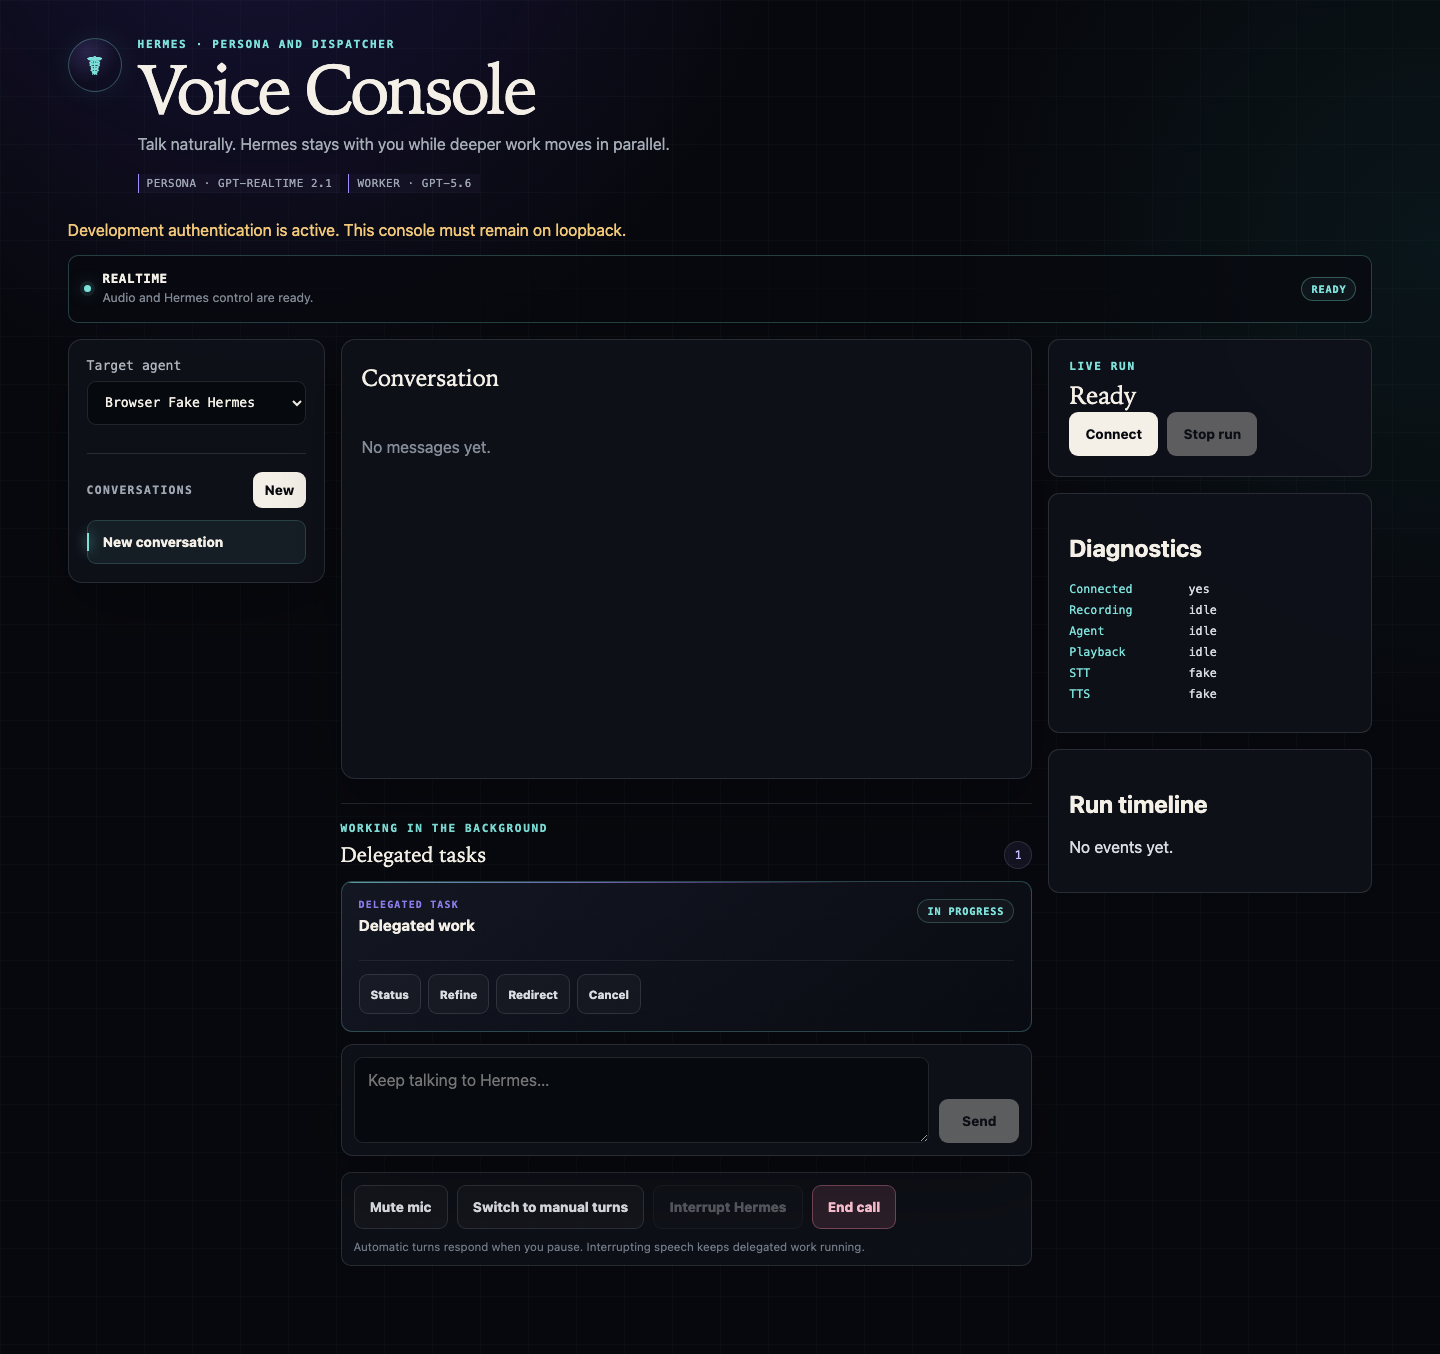
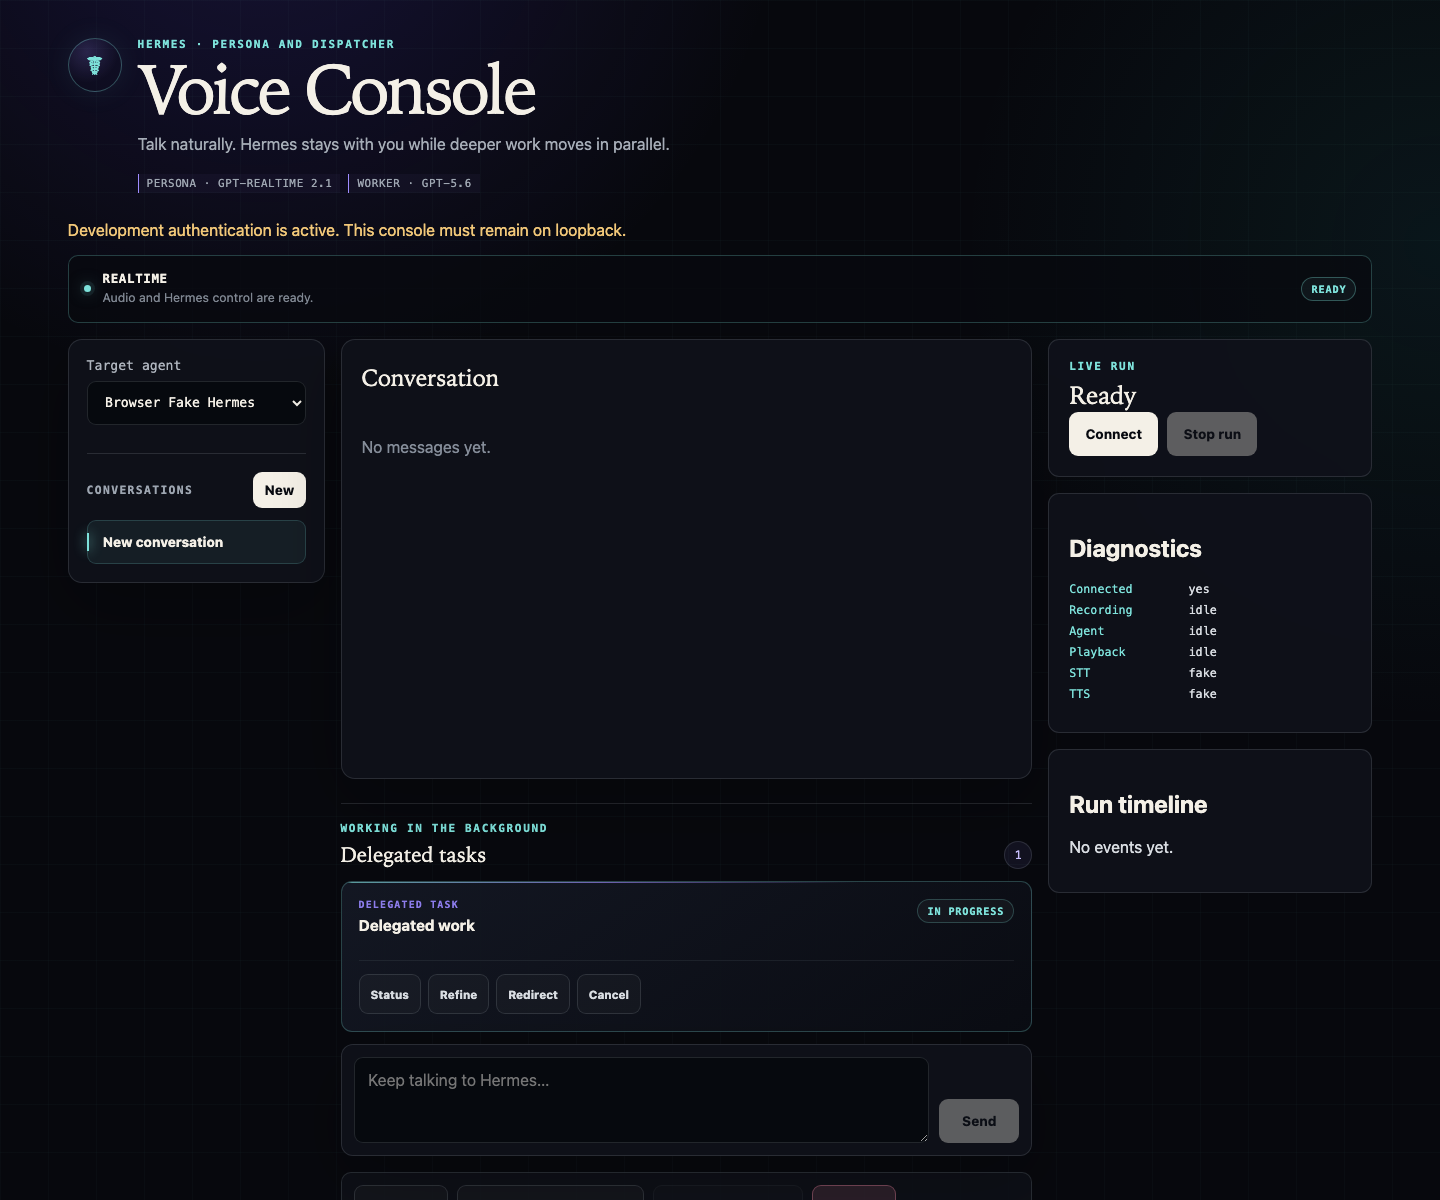
Tighten visual contrast and viewport evidence

diff --git a/frontend/src/styles.css b/frontend/src/styles.css
@@ -10,6 +10,7 @@
   --ivory: #f4f0e7;
   --ink: #d9dde2;
   --muted: #858d99;
+  --operational-muted: #87909d;
   --cyan: #7ee2db;
   --violet: #9f8cff;
   --amber: #f2c879;
@@ -105,7 +106,7 @@ h1, h2, h3 { color: var(--ivory); }
 .input-meter { width: 96px; height: 4px; overflow: hidden; border-radius: 99px; background: #252a35; }
 .input-meter span { display: block; width: 100%; height: 100%; transform-origin: left; background: linear-gradient(90deg, var(--violet), var(--cyan)); transition: transform 80ms linear; }
 .recording-time { min-width: 82px; color: var(--muted); font-family: ui-monospace, SFMono-Regular, Menlo, monospace; font-variant-numeric: tabular-nums; }
-.ai-voice-disclosure { flex-basis: 100%; margin: 0; color: #707986; font-size: .75rem; }
+.ai-voice-disclosure { flex-basis: 100%; margin: 0; color: var(--operational-muted); font-size: .75rem; }
 .sr-only { position: absolute; width: 1px; height: 1px; padding: 0; margin: -1px; overflow: hidden; clip: rect(0, 0, 0, 0); white-space: nowrap; border: 0; }
 .mic { min-width: 180px; min-height: 64px; color: #080a10; background: linear-gradient(112deg, var(--ivory), #b8fff8); }
 .mic.recording { background: linear-gradient(112deg, #ffd3de, var(--rose)); animation: pulse 1s infinite; }
@@ -145,7 +146,7 @@ code { border: 1px solid var(--line); border-radius: 5px; padding: 2px 6px; back
 .conversation-list button:hover:not(:disabled) { background: rgba(255, 255, 255, .035); }
 .conversation-list button.active { border-color: rgba(126, 226, 219, .18); color: var(--ivory); background: rgba(126, 226, 219, .065); }
 .conversation-list button.active::before { content: ''; position: absolute; inset: 12px auto 12px -1px; width: 2px; background: var(--cyan); box-shadow: 0 0 12px var(--cyan); }
-.operator-label { margin: 26px 0 0; color: #707986; font-family: ui-monospace, SFMono-Regular, Menlo, monospace; font-size: .68rem; line-height: 1.6; }
+.operator-label { margin: 26px 0 0; color: var(--operational-muted); font-family: ui-monospace, SFMono-Regular, Menlo, monospace; font-size: .68rem; line-height: 1.6; }
 .realtime-status-wrap { margin: 0 0 16px; padding: 12px 15px; border: 1px solid var(--line); border-radius: 10px; background: rgba(7, 9, 14, .72); }
 .realtime-status { display: flex; align-items: center; justify-content: space-between; gap: 16px; min-height: 42px; }
 .realtime-status-copy { display: flex; align-items: center; gap: 12px; min-width: 0; }
@@ -162,7 +163,7 @@ code { border: 1px solid var(--line); border-radius: 5px; padding: 2px 6px; back
 .realtime-presence { display: flex; gap: 6px; margin-left: auto; }
 .realtime-presence span, .job-status { border: 1px solid var(--line-strong); border-radius: 99px; padding: 5px 9px; color: var(--cyan); background: rgba(126, 226, 219, .055); font-family: ui-monospace, SFMono-Regular, Menlo, monospace; font-size: .64rem; font-weight: 700; text-transform: uppercase; letter-spacing: .08em; }
 .realtime-voice-controls { display: flex; align-items: center; flex-wrap: wrap; gap: 9px; margin-bottom: 16px; padding: 12px; border: 1px solid var(--line); border-radius: 10px; background: rgba(14, 17, 25, .76); }
-.realtime-voice-controls p { flex-basis: 100%; margin: 2px 0 0; color: #707986; font-size: .72rem; }
+.realtime-voice-controls p { flex-basis: 100%; margin: 2px 0 0; color: var(--operational-muted); font-size: .72rem; }
 .manual-capture-controls { display: flex; align-items: center; flex-wrap: wrap; gap: 8px; padding: 8px; border: 1px solid rgba(159, 140, 255, .25); border-radius: 9px; background: rgba(159, 140, 255, .045); }
 .manual-capture-controls p { flex-basis: 100%; line-height: 1.45; }
 .manual-capture-controls .manual-capture-error { color: var(--rose); }
@@ -189,7 +190,7 @@ code { border: 1px solid var(--line); border-radius: 5px; padding: 2px 6px; back
 .job-status.status-completed { color: #9cf0c7; border-color: rgba(156, 240, 199, .23); }
 .job-status.status-failed { color: var(--rose); border-color: rgba(255, 140, 170, .25); }
 .worker-job-summary { margin: 12px 0 0; color: #b8bec7; line-height: 1.55; }
-.worker-job-meta { display: flex; flex-wrap: wrap; gap: 7px; margin-top: 10px; color: #727b87; font-family: ui-monospace, SFMono-Regular, Menlo, monospace; font-size: .68rem; }
+.worker-job-meta { display: flex; flex-wrap: wrap; gap: 7px; margin-top: 10px; color: var(--operational-muted); font-family: ui-monospace, SFMono-Regular, Menlo, monospace; font-size: .68rem; }
 .worker-job-meta span + span::before { content: '\00b7'; margin-right: 7px; }
 .job-progress { margin-top: 15px; }
 .job-progress-copy { display: flex; justify-content: space-between; margin-bottom: 7px; color: #8e96a1; font-family: ui-monospace, SFMono-Regular, Menlo, monospace; font-size: .65rem; text-transform: uppercase; letter-spacing: .06em; }

diff --git a/frontend/e2e/console.spec.ts b/frontend/e2e/console.spec.ts
@@ -37,14 +37,26 @@ test('presents the Hermes research-console identity at desktop and mobile sizes'
   const desktopVisuals = await desktop.page.evaluate(() => {
     const heading = document.querySelector<HTMLElement>('.hero h1');
     const card = document.querySelector<HTMLElement>('.card');
+    const root = getComputedStyle(document.documentElement);
+    const luminance = (value: string) => {
+      const channels = value.match(/[0-9a-f]{2}/gi)?.map((channel) => parseInt(channel, 16) / 255) ?? [];
+      const linear = channels.map((channel) => channel <= .04045 ? channel / 12.92 : ((channel + .055) / 1.055) ** 2.4);
+      return .2126 * linear[0] + .7152 * linear[1] + .0722 * linear[2];
+    };
+    const operational = root.getPropertyValue('--operational-muted').trim();
+    const surface = root.getPropertyValue('--surface-solid').trim();
+    const lighter = Math.max(luminance(operational), luminance(surface));
+    const darker = Math.min(luminance(operational), luminance(surface));
     return {
       headingFamily: heading ? getComputedStyle(heading).fontFamily : '',
       cardBorder: card ? getComputedStyle(card).borderTopStyle : '',
+      operationalContrast: (lighter + .05) / (darker + .05),
       overflow: document.documentElement.scrollWidth <= window.innerWidth,
     };
   });
   expect(desktopVisuals.headingFamily).toContain('Iowan Old Style');
   expect(desktopVisuals.cardBorder).toBe('solid');
+  expect(desktopVisuals.operationalContrast).toBeGreaterThanOrEqual(5);
   expect(desktopVisuals.overflow).toBe(true);
   await desktop.context.close();
 

diff --git a/docs/visual-qa/2026-07-15/README.md b/docs/visual-qa/2026-07-15/README.md
@@ -14,23 +14,20 @@ Product hierarchy remains the priority:
 
 ## Evidence
 
-Baseline:
+Every final image is a viewport capture, not a full-page capture. This matters for fixed composer, voice-control, and modal placement. The PNG dimensions exactly match the browser viewport used for the scenario.
 
-- `baseline/desktop-initial.png`
-- `baseline/mobile-initial.png`
-
-Final:
-
-- `final/desktop-initial.png`
-- `final/mobile-initial.png`
-- `final/landscape-mobile-initial.png`
-- `final/desktop-realtime-approval-worker.png`
-- `final/desktop-realtime-live-worker.png`
-- `final/desktop-realtime-live-conversation.png`
-- `final/desktop-realtime-completed-artifact.png`
-- `final/desktop-realtime-recovery.png`
-- `final/mobile-realtime-approval.png`
-- `final/mobile-realtime-manual-capture.png`
+| Capture | Viewport | State truth |
+| --- | ---: | --- |
+| `final/desktop-initial.png` | 1440×1000 | Real local legacy fixture |
+| `final/mobile-initial.png` | 390×844 | Real local legacy fixture |
+| `final/landscape-mobile-initial.png` | 844×390 | Real local legacy fixture |
+| `final/desktop-realtime-approval-worker.png` | 1440×1000 | Real local fake-contract Realtime approval and worker state; deterministic browser media peer |
+| `final/desktop-realtime-live-worker.png` | 1440×1200 | Real local fake-contract active worker; approval layer hidden to inspect the underlying workspace |
+| `final/desktop-realtime-live-conversation.png` | 1440×1300 | Deterministic conversation projection on the real Realtime shell |
+| `final/desktop-realtime-completed-artifact.png` | 1440×1400 | Deterministic terminal job/artifact projection on the real Realtime shell |
+| `final/desktop-realtime-recovery.png` | 1440×900 | Real failed-peer recovery state |
+| `final/mobile-realtime-approval.png` | 390×844 | Real local fake-contract approval state; deterministic browser media peer |
+| `final/mobile-realtime-manual-capture.png` | 390×844 | Production controls with the fake target turn-mode endpoint |
 
 Reference:
 
@@ -38,4 +35,4 @@ Reference:
 
 The Realtime approval capture uses the real local fake-contract state and production presentation components. Only the browser media peer is replaced with a deterministic in-page peer because the local fake target intentionally returns non-media SDP.
 
-The live-conversation and completed-artifact captures are visual projection fixtures layered onto that same real Realtime shell. Their copy and terminal job state are deterministic presentation data, not evidence that the fake target performed the described release audit. The recovery capture is a real failed-peer state; the manual-capture image uses the production controls and fake target turn-mode endpoint.
+The live-conversation and completed-artifact captures are visual projection fixtures layered onto that same real Realtime shell. Their copy and terminal job state are deterministic presentation data, not evidence that the fake target performed the described release audit. The table above is the source of truth for screenshot provenance.
